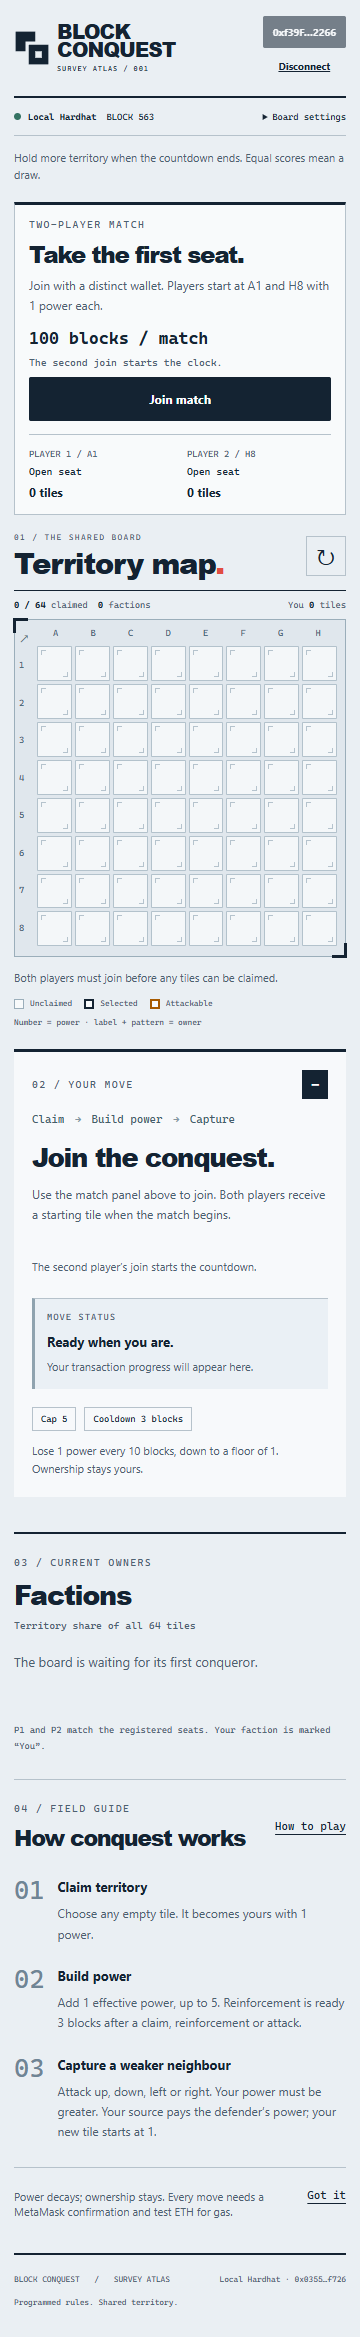
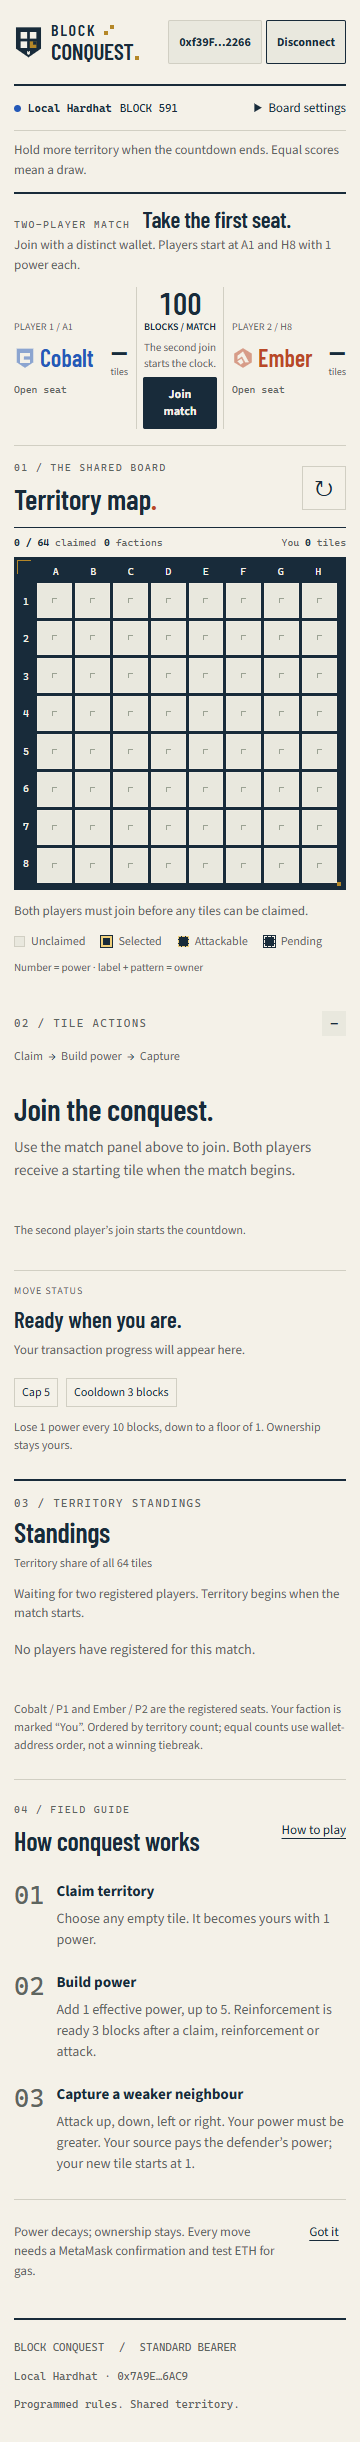
docs: update Standard Bearer submission screenshots

diff --git a/README.md b/README.md
@@ -31,7 +31,7 @@ Decay floors at power 1 and never removes ownership; empty tiles have power 0. C
 
 ## Features and technology
 
-- Survey Atlas interface with owner patterns, player labels, effective power, a match scoreboard and territory-share leaderboard counted from `getGrid()`.
+- Standard Bearer interface — “Every square counts.” — with Cobalt/Ember crests, owner patterns, player labels, effective power, a match scoreboard and territory-share leaderboard counted from `getGrid()`.
 - Match lobby, join/start transaction, block countdown, spectator view, winner/draw screen and result-recording transaction.
 - Attack estimates, cooldown/decay countdowns, transaction feedback, and refreshes on new blocks.
 - Wallet connection and Disconnect, account/network changes, keyboard navigation, mobile action row and reduced-motion support.
@@ -99,9 +99,9 @@ npm run test:ui
 npm run build
 ```
 
-The suite contains **90 contract tests**, **12 frontend logic tests** and **29 browser integration tests**. Contract coverage includes joining, permissions, exact deadline boundaries, either winner/draw, immutable final state, all original tile rules, long inactivity and attacks using both effective powers. Browser tests exercise full matches, spectators, rejection, late transactions, disconnect/reconnect and mobile reachability, alongside the open-board regressions.
+The suite contains **90 contract tests**, **14 frontend logic tests** and **38 browser integration tests**. Contract coverage includes joining, permissions, exact deadline boundaries, either winner/draw, immutable final state, all original tile rules, long inactivity and attacks using both effective powers. Browser tests exercise full matches, spectators, rejection, late transactions, disconnect/reconnect, zero-score participants, delayed/failed snapshot refreshes, recorded results and layouts at 360, 390, 430, 768, 1024 and 1440px, alongside the open-board regressions.
 
-All **131 tests**, typechecking, production build and development-server startup passed in a fresh local Git checkout on Windows. A live two-player MetaMask match also completed on Sepolia: both joins, claim, reinforcement, capture and finalization were observed, with the result independently checked.
+All **142 tests**, typechecking and the production build passed in a fresh local checkout with a clean `npm ci` installation on Windows. A live two-player MetaMask match also completed on Sepolia using the earlier interface: both joins, claim, reinforcement, capture and finalization were observed, with the result independently checked. The redesign preserves that deployed contract and its blockchain integration.
 
 Run `npm test` before typechecking to generate types. Browser tests need installed Chrome and free ports **8545/4173**. Set `PLAYWRIGHT_CHANNEL=msedge` to use installed Edge instead. Browser automation uses real local contracts and a test-only wallet adapter; it does not automate the MetaMask extension or submit public-network transactions. Validation details are in [docs/VALIDATION.md](docs/VALIDATION.md).
 
@@ -109,21 +109,21 @@ Run `npm test` before typechecking to generate types. Browser tests need install
 
 ## Screenshots
 
-Completed two-player match on **Ethereum Sepolia**, showing player 2's recorded 3–0 victory:
+Current **Standard Bearer** interface on **local Hardhat**, after a confirmed capture:
 
-![Sepolia match result showing Player 2 wins, final scores 0–3, and Result confirmed](docs/screenshots/sepolia-match-result.png)
-
-The [recorded Sepolia result](https://sepolia.etherscan.io/tx/0x874687427e1221263cf0a5d55ec697fb2d0f26fbb8eda130365128fb2764eb37) confirms player 2 won with 3 tiles to player 1's 0. The [capture transaction](https://sepolia.etherscan.io/tx/0xdd86633ffd4c8a030cf1a26555e33538294bc32cedac7e07cdc51fe95f95f654) records B1 → A1. Transaction details and final board ownership are in the [Sepolia match evidence](docs/MATCH_DEPLOYMENT.md).
-
-Two-player match on **local Hardhat**, after a capture:
-
-![Local two-player match with both scores, countdown and confirmed capture](docs/screenshots/match-active-local.png)
+![Standard Bearer local match with Cobalt and Ember scores, countdown, patterned territories and confirmed capture](docs/screenshots/match-active-local.png)
 
 Final result recorded on **local Hardhat**:
 
-![Local match with a recorded winner and locked final scores](docs/screenshots/match-result-local.png)
+![Standard Bearer recorded Cobalt victory with final scores and the locked board](docs/screenshots/match-result-local.png)
 
-[Mobile match lobby](docs/screenshots/match-lobby-mobile-local.png). These match screenshots are local tests, not Sepolia evidence.
+[Mobile Standard Bearer match lobby](docs/screenshots/match-lobby-mobile-local.png). These current-interface screenshots come from automated tests against real local contracts, using a test-only wallet adapter. They are not Sepolia evidence.
+
+Completed two-player match on **Ethereum Sepolia**, captured through real MetaMask **before the Standard Bearer redesign**, showing player 2's recorded 3–0 victory:
+
+![Earlier interface: real Sepolia match showing Player 2 wins, final scores 0–3, and Result confirmed](docs/screenshots/sepolia-match-result.png)
+
+The [recorded Sepolia result](https://sepolia.etherscan.io/tx/0x874687427e1221263cf0a5d55ec697fb2d0f26fbb8eda130365128fb2764eb37) confirms player 2 won with 3 tiles to player 1's 0. The [capture transaction](https://sepolia.etherscan.io/tx/0xdd86633ffd4c8a030cf1a26555e33538294bc32cedac7e07cdc51fe95f95f654) records B1 → A1. Transaction details and final board ownership are in the [Sepolia match evidence](docs/MATCH_DEPLOYMENT.md).
 
 ## Known limitations
 

diff --git a/docs/VALIDATION.md b/docs/VALIDATION.md
@@ -1,6 +1,25 @@
 # Submission and UI validation
 
-## Final publication review — 21 October 2026
+## Standard Bearer final audit — 1 November 2026
+
+The approved integration at `06c46ad` passed a fresh-checkout validation on Windows 11 with Node.js 24.13.0, npm 11.6.2 and installed Chrome. The checkout started from prototype checkpoint `8ae6bef` and received the exact 22 reviewed integration files subsequently committed at `06c46ad`. Dependencies, caches, build output and `.env.local` were not copied; dependencies were installed with `npm ci`.
+
+| Check | Result |
+| --- | --- |
+| npm ci | Passed; 207 locked packages installed |
+| npm test | 90 contract tests passed |
+| npm run test:frontend | 14 frontend logic tests passed |
+| npm run typecheck | Passed |
+| npm run test:ui | Production build and all 38 browser tests passed |
+| Total | 142 tests passed; zero failures |
+
+Browser checks covered match and open-board modes, six owner identities, registered players with zero tiles, account/network changes, disconnect/reconnect, stable tile buttons, claim/reinforcement/capture, transaction rejection, delayed or failed snapshots, expiration before recording, recorded victory/defeat/draw and spectators. Responsive checks passed at 360, 390, 430, 768, 1024 and 1440px, including keyboard focus, reduced motion, ownership patterns and control sizes. The approved mobile exception keeps all eight board columns visible with tiles smaller than 44px; other interactive controls are at least 44px.
+
+The complete integration diff was reviewed. Solidity, ABIs, deployed addresses, dependencies, wallet/transaction submission code, block-consistent refresh logic and game rules are unchanged. Final outcomes require phase 3 and a valid recorded winner; successful transaction presentation waits for a confirmed receipt and refreshed snapshot. No production mock engine, credential signatures or unintended artifacts were found in the proposed commit. Required fonts, SVGs and font licenses match the approved prototype.
+
+The current local [gameplay](screenshots/match-active-local.png), [recorded result](screenshots/match-result-local.png) and [mobile lobby](screenshots/match-lobby-mobile-local.png) screenshots were generated by this validation and visually reviewed. Browser automation uses real local contracts and a test-only wallet adapter; it does not operate the MetaMask extension. The original [Sepolia screenshot](screenshots/sepolia-match-result.png) remains unchanged as evidence from the earlier interface. No new Sepolia transaction was submitted for this audit or the screenshot update.
+
+## Previous publication review — 21 October 2026
 
 The complete suite passed again before publication: 90 contract tests, 12 frontend logic tests and 29 browser tests (131 total), plus TypeScript checking and the production build. All local Markdown links resolved. A tracked-file credential-pattern scan found no matches. Review found no blocking code issues; outdated branch setup instructions and completed-match guidance were corrected. Automated browser checks use local contracts, not MetaMask or Sepolia.
 
